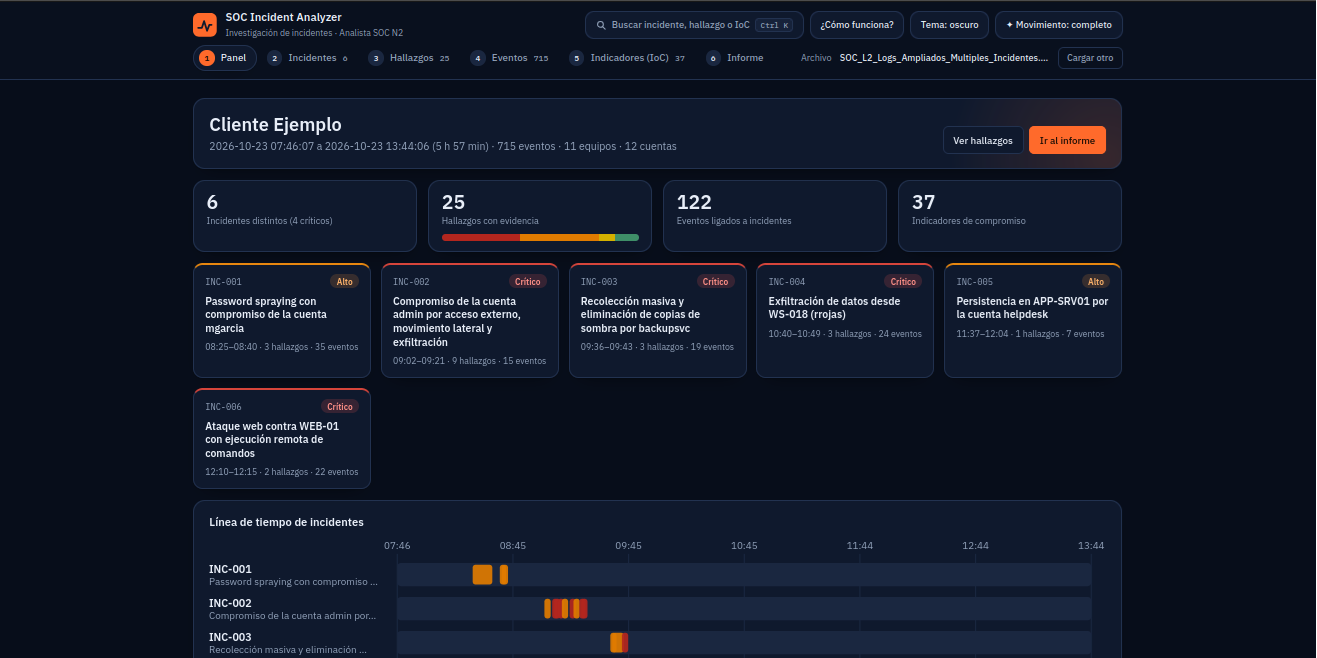
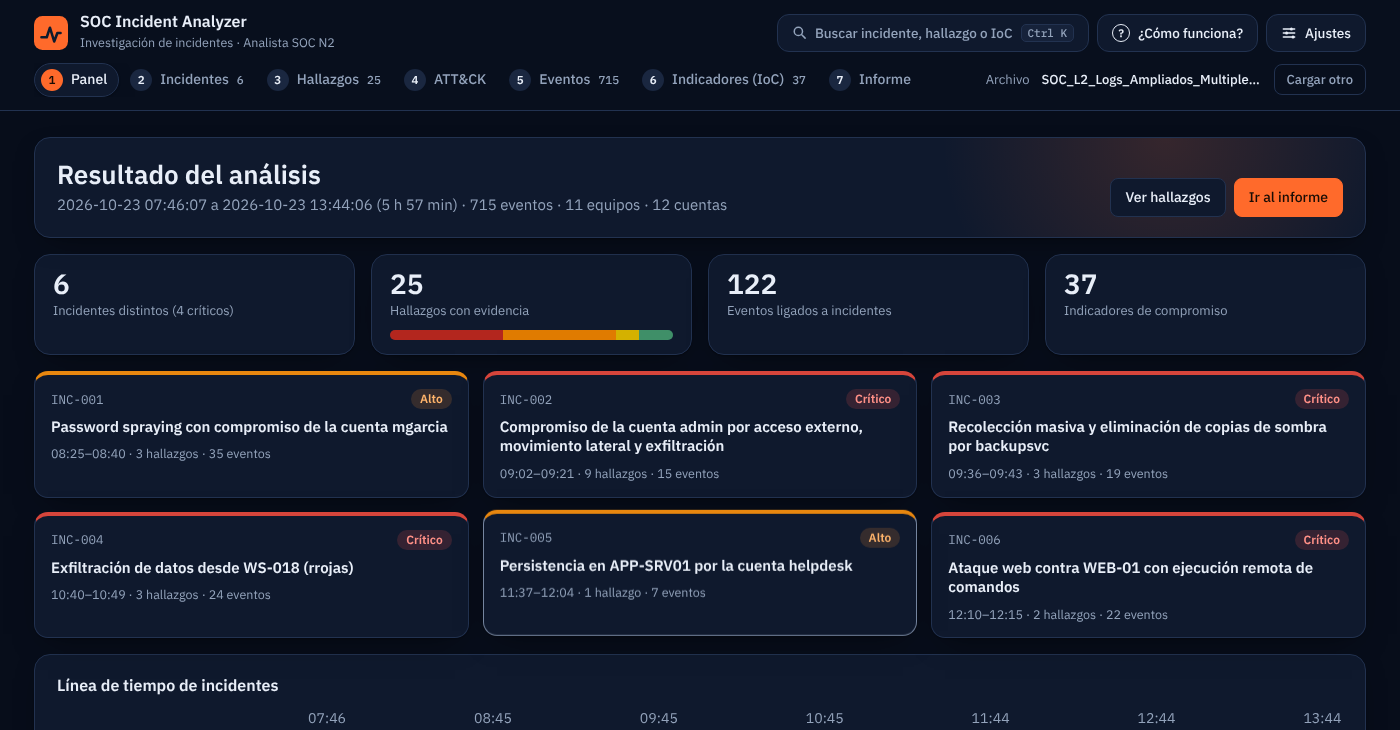
Add files via upload

diff --git a/frontend/app.js b/frontend/app.js
@@ -8,6 +8,7 @@ const S = { needAuth: false, sid: null, filename: "", client: "", analyst: "", a
 
 const $ = (s, r = document) => r.querySelector(s);
 const esc = (v) => String(v ?? "").replace(/[&<>"']/g, (c) => ({ "&": "&amp;", "<": "&lt;", ">": "&gt;", '"': "&quot;", "'": "&#39;" }[c]));
+const plural = (n, one, many) => `${num(n)} ${n === 1 ? one : many}`;
 const sevPill = (s) => `<span class="sev ${esc(s)}">${esc(s)}</span>`;
 const num = (n) => Number(n).toLocaleString("es-AR");
 const hhmm = (t) => (t || "").slice(11, 16);
@@ -58,6 +59,15 @@ async function upload(file, client, analyst) {
   } catch (e) { showLandingError(e.message); }
   finally { busy(false); }
 }
+async function useSample(client, analyst) {
+  busy(true, "Analizando el ejemplo…");
+  try {
+    const fd = new FormData(); fd.append("client", client); fd.append("analyst", analyst);
+    const res = await api("/api/sample", { method: "POST", body: fd });
+    adopt(res); location.hash = "#/dashboard"; render();
+  } catch (e) { showLandingError(e.message); }
+  finally { busy(false); }
+}
 function showLandingError(m) { const b = $("#lerr"); if (b) { b.textContent = m; b.hidden = false; } else toast(m); }
 
 /* ---------- navegación ---------- */
@@ -70,6 +80,7 @@ function renderRail() {
   const cnt = { incidents: S.a.incidents.length, findings: S.a.findings.length, iocs: S.a.iocs.length, logs: S.a.profile.rows };
   nav.innerHTML = ROUTES.map(([k, l], i) =>
     `<a href="#/${k}" ${route() === k ? 'aria-current="page"' : ""}><span class="n">${i + 1}</span><span>${l}</span>${cnt[k] !== undefined ? `<span class="count">${num(cnt[k])}</span>` : ""}</a>`).join("");
+  const cur = nav.querySelector("[aria-current=page]"); if (cur) nav.scrollLeft = Math.max(0, cur.offsetLeft - 24);   // narrow screens: keep the open section visible
   foot.innerHTML = `<span>Archivo</span><b title="${esc(S.filename)}">${esc(S.filename)}</b><button class="btn ghost" id="newBtn">Cargar otro</button>`;
   $("#newBtn").onclick = () => { S.a = null; S.sid = null; store.set("sid", ""); location.hash = "#/"; render(); };
 }
@@ -129,7 +140,9 @@ function landing() {
     </div>
     <div class="row">
       <button class="btn primary" id="go" disabled>Analizar archivo</button>
+      <button class="btn" id="sample" type="button">Probar con datos de ejemplo</button>
     </div>
+    <p class="muted hint">¿Solo quieres ver cómo funciona? El ejemplo usa el export sintético del repositorio (715 eventos, sin datos reales).</p>
     <div class="err" id="lerr" role="alert" hidden></div>
     <ul class="checks">
       <li>Fuerza bruta y password spraying</li><li>Inicios de sesión externos y fuera de patrón</li>
@@ -149,6 +162,7 @@ function bindLanding() {
   ["dragleave", "drop"].forEach((ev) => drop.addEventListener(ev, (e) => { e.preventDefault(); drop.classList.remove("over"); }));
   drop.addEventListener("drop", (e) => pick(e.dataTransfer.files[0]));
   go.onclick = () => upload(file, $("#client").value, $("#analyst").value);
+  $("#sample").onclick = () => useSample($("#client").value, $("#analyst").value);
 }
 
 /* ---------- gráficos ---------- */
@@ -225,7 +239,7 @@ function dashboard() {
   return `<section class="panel hero">
       <div class="page-head" style="margin:0">
         <div><h1>${S.client ? esc(S.client) : "Resultado del análisis"}</h1>
-        <p>${esc(p.time_start)} a ${esc(p.time_end)} (${esc(p.duration)}) · ${num(p.rows)} eventos · ${p.hosts} equipos · ${p.users} cuentas</p></div>
+        <p>${esc(p.time_start)} a ${esc(p.time_end)} (${esc(p.duration)}) · ${plural(p.rows, "evento", "eventos")} · ${plural(p.hosts, "equipo", "equipos")} · ${plural(p.users, "cuenta", "cuentas")}</p></div>
         <div style="display:flex;gap:8px;flex-wrap:wrap"><a class="btn" href="#/findings">Ver hallazgos</a><a class="btn primary" href="#/report">Ir al informe</a></div>
       </div></section>
     <div class="grid g4" style="margin-top:16px">
@@ -237,7 +251,7 @@ function dashboard() {
     <div class="inc-cards">${S.a.incidents.map((i) => `<button class="inc-card ${esc(i.severity)}" data-card="${esc(i.id)}">
         <span class="top2"><span class="mono muted">${esc(i.id)}</span>${sevPill(i.severity)}</span>
         <b>${esc((S.ai.incidents[i.id] || {}).title || i.title)}</b>
-        <small>${hhmm(i.time_start)}–${hhmm(i.time_end)} · ${i.finding_ids.length} hallazgos · ${i.evidence_count} eventos</small></button>`).join("")}</div>
+        <small>${hhmm(i.time_start)}–${hhmm(i.time_end)} · ${plural(i.finding_ids.length, "hallazgo", "hallazgos")} · ${plural(i.evidence_count, "evento", "eventos")}</small></button>`).join("")}</div>
     <div class="panel" style="margin-top:16px"><h3>Línea de tiempo de incidentes</h3>${swimlane()}</div>
     <div class="grid g-wide" style="margin-top:16px">
       <div class="panel"><h3>Actividad de la ventana analizada</h3>${activityChart()}</div>
@@ -281,7 +295,7 @@ function incidents() {
     const g = G[inc.id] || {}, fs = S.a.findings.filter((f) => f.incident_id === inc.id);
     return `<article class="panel inc ${esc(inc.severity)}" id="${esc(inc.id)}">
       <div class="inc-head"><div><span class="id">${esc(inc.id)}</span><h2>${esc(g.title || inc.title)}</h2></div>${sevPill(inc.severity)}</div>
-      <div class="meta-line"><span>${hhmmss(inc.time_start)}–${hhmmss(inc.time_end)}</span><span>${inc.evidence_count} eventos de evidencia</span>
+      <div class="meta-line"><span>${hhmmss(inc.time_start)}–${hhmmss(inc.time_end)}</span><span>${plural(inc.evidence_count, "evento", "eventos")} de evidencia</span>
         ${g.confidence ? `<span>Confianza de la correlación: ${esc(g.confidence)}</span>` : ""}</div>
       <p>${esc(g.narrative || "")}</p>
       ${g.confidence_reason ? `<p class="muted">${esc(g.confidence_reason)}</p>` : ""}
@@ -312,7 +326,7 @@ function attack() {
       <h3>${esc(t.name_es)}<small>${esc(t.id)} · ${esc(t.name)}</small></h3>
       ${t.techniques.map((c) => `<article class="mx-cell ${esc(c.severity)}">
         ${MITRE_URL.test(c.url) ? `<a href="${esc(c.url)}" target="_blank" rel="noopener noreferrer"><span class="mono">${esc(c.id)}</span> ${esc(c.name)}</a>` : `<span class="mono">${esc(c.id)}</span> ${esc(c.name)}`}
-        <div class="mx-meta">${sevPill(c.severity)}<span class="muted">${c.count} ${c.count === 1 ? "hallazgo" : "hallazgos"}</span></div>
+        <div class="mx-meta">${sevPill(c.severity)}<span class="muted">${plural(c.count, "hallazgo", "hallazgos")}</span></div>
         <div>${c.finding_ids.map((f) => `<button class="tag tag-btn" data-mxf="${esc(c.id)}" title="Ver hallazgos con ${esc(c.id)}">${esc(f)}</button>`).join("")}</div>
       </article>`).join("")}</section>`).join("");
   return `${head}
@@ -320,8 +334,8 @@ function attack() {
     <div class="panel" style="margin-top:16px"><h3>Exportar</h3>
       <p class="muted">Descarga una capa para <b>ATT&amp;CK Navigator</b> (el color indica la criticidad máxima). En Navigator: <i>Open Existing Layer</i> → <i>Upload from local</i>. El archivo se genera aquí; no se envía a ningún servicio.</p>
       <button class="btn primary" id="navLayer">Descargar capa para Navigator (.json)</button></div>
-    <div class="mx" role="region" aria-label="Matriz ATT&amp;CK" tabindex="0">${cols}</div>
-    <p class="muted">${A.techniques_total} ${A.techniques_total === 1 ? "técnica" : "técnicas"} en ${A.tactics.length} ${A.tactics.length === 1 ? "táctica" : "tácticas"}.${A.findings_without_mapping ? ` ${A.findings_without_mapping} hallazgo(s) sin técnica asociada (por ejemplo, calidad de datos).` : ""}</p>`;
+    <div class="mx" role="region" aria-label="Matriz ATT&amp;CK">${cols}</div>
+    <p class="muted">${A.techniques_total} ${A.techniques_total === 1 ? "técnica" : "técnicas"} en ${A.tactics.length} ${A.tactics.length === 1 ? "táctica" : "tácticas"}.${A.findings_without_mapping ? ` ${plural(A.findings_without_mapping, "hallazgo sin técnica asociada", "hallazgos sin técnica asociada")} (por ejemplo, calidad de datos).` : ""}</p>`;
 }
 function bindAttack() {
   document.querySelectorAll("[data-mxf]").forEach((b) => b.onclick = () => { S.findingQ = b.dataset.mxf; S.findingFilter = "Todos"; S.findingCat = ""; location.hash = "#/findings"; });
@@ -355,7 +369,7 @@ function findings() {
         <h4>Explicación técnica</h4><p>${esc(a.technical_explanation || f.explanation)}</p>
         <h4>Criticidad: ${esc(f.severity)}</h4><p>${esc(a.severity_justification || "")}</p><ul>${li(f.reasons)}</ul>
         <h4>Impacto en la organización</h4><p>${esc(a.impact || "")}</p>
-        <h4>Evidencia (${f.evidence_ids.length} eventos)</h4>
+        <h4>Evidencia (${plural(f.evidence_ids.length, "evento", "eventos")})</h4>
         <div class="evbox" data-fid="${esc(f.id)}"><button class="btn" data-loadev="${esc(f.id)}">Ver eventos de log</button></div>
         <h4>Plan de acción</h4>
         <div class="plan"><div><h4>Investigar</h4><ul>${li(ap.investigate)}</ul></div><div><h4>Contener</h4><ul>${li(ap.contain)}</ul></div><div><h4>Remediar</h4><ul>${li(ap.remediate)}</ul></div></div>
@@ -364,7 +378,7 @@ function findings() {
   return `<div class="page-head"><div><h1>Hallazgos</h1><p>Cada hallazgo cita los Log_ID del archivo que lo sustentan.</p></div></div>
     <div class="filters"><input type="search" id="fq" placeholder="Buscar por nombre, técnica (T1110) o táctica" value="${esc(S.findingQ)}" aria-label="Buscar hallazgos">
       <select id="fcat" aria-label="Categoría"><option value="">Todas las categorías</option>${cats.map((c) => `<option ${c === S.findingCat ? "selected" : ""}>${esc(c)}</option>`).join("")}</select>
-      <span class="muted">${list.length} de ${S.a.findings.length} hallazgos</span></div>
+      <span class="muted">${list.length} de ${plural(S.a.findings.length, "hallazgo", "hallazgos")}</span></div>
     <div class="chip-row">${chips}</div>${items || "<p class='muted'>No hay hallazgos con ese filtro.</p>"}`;
 }
 function evTable(rows) {
@@ -605,6 +619,16 @@ function applyMotion(m) {
 function initChrome() {
   let theme = pref.get("theme") || "auto", motion = pref.get("motion") || "full";
   applyTheme(theme); applyMotion(motion);
+  const sBtn = $("#settingsBtn"), sMenu = $("#settingsMenu");
+  const closeMenu = (focus) => { sMenu.hidden = true; sBtn.setAttribute("aria-expanded", "false"); if (focus) sBtn.focus(); };
+  sBtn.onclick = () => { const open = sMenu.hidden; sMenu.hidden = !open; sBtn.setAttribute("aria-expanded", String(open)); if (open) sMenu.querySelector("button").focus(); };
+  document.addEventListener("click", (e) => { if (!sMenu.hidden && !e.target.closest(".menu-wrap")) closeMenu(false); });
+  sMenu.addEventListener("keydown", (e) => {
+    const items = [...sMenu.querySelectorAll("button")], i = items.indexOf(document.activeElement);
+    if (e.key === "Escape") { e.preventDefault(); closeMenu(true); }
+    else if (e.key === "ArrowDown") { e.preventDefault(); items[(i + 1) % items.length].focus(); }
+    else if (e.key === "ArrowUp") { e.preventDefault(); items[(i - 1 + items.length) % items.length].focus(); }
+  });
   $("#themeBtn").onclick = () => { theme = { auto: "light", light: "dark", dark: "auto" }[theme]; pref.set("theme", theme); applyTheme(theme); };
   $("#motionBtn").onclick = () => { motion = motion === "full" ? "reduced" : "full"; pref.set("motion", motion); applyMotion(motion); };
   $("#helpBtn").onclick = () => openDialog("¿Cómo funciona?", `<div class="how"><ol>

diff --git a/frontend/styles.css b/frontend/styles.css
@@ -57,18 +57,24 @@ button,input,select{font:inherit;color:inherit}
 .tool{display:inline-flex;align-items:center;gap:8px;border:1px solid var(--line);background:var(--panel);border-radius:12px;padding:8px 14px;cursor:pointer;font-size:13.5px;font-weight:500;transition:border-color .15s,transform .15s}
 .tool:hover{border-color:var(--muted)}
 .tool:active{transform:scale(.97)}
+.tool .ico{display:grid;place-items:center;width:18px;height:18px;border:1.5px solid currentColor;border-radius:50%;font:700 11px var(--sans)}
+.menu-wrap{position:relative}
+.menu{position:absolute;right:0;top:calc(100% + 6px);min-width:230px;background:var(--panel);border:1px solid var(--line);border-radius:12px;box-shadow:var(--shadow);padding:6px;z-index:30}
+.menu button{display:block;width:100%;text-align:left;background:none;border:0;padding:9px 12px;border-radius:8px;cursor:pointer;font-size:14px}
+.menu button:hover,.menu button:focus-visible{background:var(--soft)}
 .tool.wide{min-width:280px;color:var(--muted);justify-content:flex-start}
 .tool kbd{margin-left:auto;font:500 11px var(--mono);border:1px solid var(--line);border-radius:5px;padding:1px 6px;background:var(--soft)}
 .tabs-row{display:flex;align-items:center;justify-content:space-between;gap:16px;padding:0 34px 12px;max-width:1400px;margin:0 auto;min-height:48px}
-.tabs{display:flex;gap:6px;flex-wrap:wrap}
-.tabs a{display:inline-flex;align-items:center;gap:9px;padding:6px 14px 6px 7px;border:1px solid transparent;border-radius:999px;text-decoration:none;color:var(--muted);font-size:14px;font-weight:500;transition:background .15s,color .15s,border-color .15s}
+.tabs{display:flex;gap:4px;flex-wrap:nowrap;min-width:0;overflow-x:auto;scrollbar-width:none;-webkit-overflow-scrolling:touch}
+.tabs::-webkit-scrollbar{display:none}
+.tabs a{display:inline-flex;align-items:center;gap:8px;flex:0 0 auto;white-space:nowrap;padding:5px 11px 5px 6px;border:1px solid transparent;border-radius:999px;text-decoration:none;color:var(--muted);font-size:14px;font-weight:500;transition:background .15s,color .15s,border-color .15s}
 .tabs a:hover{color:var(--ink);background:var(--soft)}
 .tabs a .n{display:grid;place-items:center;width:22px;height:22px;border-radius:50%;background:var(--track);font:600 11.5px var(--sans);color:var(--ink)}
 .tabs a .count{font:500 11.5px var(--mono);color:var(--muted)}
 .tabs a[aria-current=page]{color:var(--ink);border-color:var(--line);background:var(--panel);box-shadow:var(--shadow)}
 .tabs a[aria-current=page] .n{background:var(--accent);color:var(--accent-ink)}
 .rail-foot{display:flex;align-items:center;gap:12px;font-size:13px;color:var(--muted);min-width:0}
-.rail-foot b{color:var(--ink);font-weight:500;overflow:hidden;text-overflow:ellipsis;white-space:nowrap;max-width:300px}
+.rail-foot b{color:var(--ink);font-weight:500;overflow:hidden;text-overflow:ellipsis;white-space:nowrap;max-width:220px}
 .rail-foot .btn{padding:5px 12px;font-size:13px;white-space:nowrap}
 
 main{padding:26px 34px 70px;min-width:0;max-width:1400px;width:100%;margin:0 auto}
@@ -217,7 +223,7 @@ dialog .db{padding:14px 18px 18px;max-height:70vh;overflow:auto}
 .hero{position:relative;overflow:hidden}
 .hero::before{content:"";position:absolute;inset:0;pointer-events:none;background:radial-gradient(circle 320px at var(--gx,85%) var(--gy,0%),rgba(255,106,43,.16),transparent 70%);transition:opacity .3s}
 .hero>*{position:relative}
-.inc-cards{display:grid;grid-template-columns:repeat(auto-fill,minmax(250px,1fr));gap:14px;margin-top:16px}
+.inc-cards{display:grid;grid-template-columns:repeat(auto-fill,minmax(min(100%,400px),1fr));gap:14px;margin-top:16px}
 .inc-card{display:flex;flex-direction:column;gap:8px;text-align:left;cursor:pointer;border:1px solid var(--line);border-top:4px solid var(--none);background:var(--panel);border-radius:14px;padding:14px 16px;box-shadow:var(--shadow);transition:transform .18s,border-color .18s}
 .inc-card:hover,.inc-card:focus-visible{transform:translateY(-3px);border-color:var(--muted)}
 .inc-card.Crítico{border-top-color:#d6453b}.inc-card.Alto{border-top-color:#e8870f}.inc-card.Medio{border-top-color:#d9b800}.inc-card.Bajo{border-top-color:#3fa377}
@@ -251,10 +257,13 @@ dialog.pal{max-width:640px;margin-top:12vh}
   .top-row,.tabs-row{padding-left:16px;padding-right:16px}
   main{padding:20px 16px 50px}
   .tool.wide{min-width:0}.tool.wide span,.tool.wide kbd{display:none}
-  .tabs-row{flex-direction:column;align-items:flex-start}
+  .tabs-row{flex-direction:column;align-items:stretch;padding-bottom:10px}
   .g2,.g3,.g4,.g-wide,.plan,.fields,.checks{grid-template-columns:1fr}
   .g4{grid-template-columns:1fr 1fr}
 }
+.hint{margin:12px 0 0;font-size:13.5px}
+@media (max-width:900px){.tool .lbl{display:none}.tool{padding:8px 11px}.tabs-row{gap:8px}.tabs{-webkit-mask-image:linear-gradient(to right,#000 calc(100% - 28px),transparent);mask-image:linear-gradient(to right,#000 calc(100% - 28px),transparent);padding-right:28px}.rail-foot{width:100%;justify-content:space-between}.rail-foot b{max-width:60vw}}
+@media (max-width:600px){.brand small{display:none}.top-row{padding-top:10px;padding-bottom:6px}}
 @media (prefers-reduced-motion:reduce){*{transition:none!important;animation:none!important}}
 
 /* reputación de indicadores */
@@ -269,8 +278,8 @@ dialog.pal{max-width:640px;margin-top:12vh}
 /* MITRE ATT&CK matrix */
 .tag-link{text-decoration:none}.tag-link:hover{text-decoration:underline}
 .tag-btn{border:0;cursor:pointer}.tag-btn:focus-visible,.tag-link:focus-visible,.mx-cell a:focus-visible{outline:2px solid var(--focus);outline-offset:2px}
-.mx{display:flex;gap:12px;overflow-x:auto;padding:4px 2px 14px;margin:16px 0}
-.mx-col{flex:0 0 220px}
+.mx{display:grid;grid-template-columns:repeat(auto-fill,minmax(210px,1fr));gap:20px 14px;align-items:start;margin:16px 0}
+.mx-col{min-width:0}
 .mx-col h3{font-size:14px;margin:0 0 8px;line-height:1.25}.mx-col h3 small{display:block;font:500 11px var(--mono);color:var(--muted);margin-top:2px}
 .mx-cell{border:1px solid var(--line);border-left:4px solid var(--line);border-radius:8px;padding:9px 10px;margin-bottom:8px;background:var(--panel,transparent);font-size:13px}
 .mx-cell a{color:inherit;font-weight:600;text-decoration:none}.mx-cell a:hover{text-decoration:underline}

diff --git a/frontend/index.html b/frontend/index.html
@@ -23,9 +23,17 @@
             <svg width="15" height="15" viewBox="0 0 20 20" aria-hidden="true"><circle cx="8.5" cy="8.5" r="5.5" fill="none" stroke="currentColor" stroke-width="2"/><path d="M13 13l4.5 4.5" stroke="currentColor" stroke-width="2" stroke-linecap="round"/></svg>
             <span>Buscar incidente, hallazgo o IoC</span><kbd>Ctrl K</kbd>
           </button>
-          <button class="tool" id="helpBtn">¿Cómo funciona?</button>
-          <button class="tool" id="themeBtn" aria-label="Cambiar tema"></button>
-          <button class="tool" id="motionBtn" aria-label="Cambiar movimiento"></button>
+          <button class="tool" id="helpBtn" aria-label="¿Cómo funciona?"><span class="ico" aria-hidden="true">?</span><span class="lbl">¿Cómo funciona?</span></button>
+          <div class="menu-wrap">
+            <button class="tool" id="settingsBtn" aria-haspopup="true" aria-expanded="false" aria-controls="settingsMenu" aria-label="Ajustes de visualización">
+              <svg width="16" height="16" viewBox="0 0 20 20" aria-hidden="true"><path d="M3 5h8M15 5h2M3 10h2M9 10h8M3 15h10M17 15h0" fill="none" stroke="currentColor" stroke-width="2" stroke-linecap="round"/><circle cx="13" cy="5" r="2" fill="currentColor"/><circle cx="7" cy="10" r="2" fill="currentColor"/><circle cx="15" cy="15" r="2" fill="currentColor"/></svg>
+              <span class="lbl">Ajustes</span>
+            </button>
+            <div class="menu" id="settingsMenu" role="menu" aria-label="Ajustes de visualización" hidden>
+              <button role="menuitem" id="themeBtn"></button>
+              <button role="menuitem" id="motionBtn"></button>
+            </div>
+          </div>
         </div>
       </div>
       <div class="tabs-row">

diff --git a/tests/integration/test_sample_api.py b/tests/integration/test_sample_api.py
@@ -1,0 +1,49 @@
+"""Datos de ejemplo y estructura de la interfaz: el botón de ejemplo usa un archivo fijo del servidor, no uno elegido por el cliente."""
+from pathlib import Path
+
+from fastapi.testclient import TestClient
+
+from backend import main
+from backend.main import app
+
+client = TestClient(app)
+FRONT = Path(__file__).resolve().parents[2] / "frontend"
+
+
+def test_sample_runs_the_bundled_export():
+    r = client.post("/api/sample", data={"client": "Cliente de prueba", "analyst": "Ana"})
+    assert r.status_code == 200
+    j = r.json()
+    assert j["filename"] == main.SAMPLE_FILE.name and j["client"] == "Cliente de prueba" and j["analyst"] == "Ana"
+    assert j["analysis"]["profile"]["rows"] == 715 and len(j["analysis"]["incidents"]) == 6
+    assert client.get(f"/api/sessions/{j['session_id']}").status_code == 200
+
+
+def test_sample_ignores_any_file_or_path_sent_by_the_client():
+    r = client.post("/api/sample", data={"file": "../../etc/passwd", "path": "/etc/passwd"}, files={"f": ("x.csv", b"a,b\n1,2\n")})
+    assert r.status_code == 200 and r.json()["filename"] == main.SAMPLE_FILE.name
+
+
+def test_sample_without_the_bundled_file_is_a_clean_404(monkeypatch):
+    monkeypatch.setattr(main, "SAMPLE_FILE", Path("/nonexistent/ejemplo.csv"))
+    r = client.post("/api/sample")
+    assert r.status_code == 404 and "ejemplo" in r.json()["detail"]
+
+
+def test_sample_is_rate_limited_like_upload():
+    main._hits.clear()
+    codes = [client.post("/api/sample").status_code for _ in range(main.RATE_LIMITS["/api/upload"][0] + 2)]
+    main._hits.clear()
+    assert codes[-1] == 429 and codes[0] == 200
+
+
+def test_ui_has_the_sample_button_and_one_settings_menu():
+    html, js = (FRONT / "index.html").read_text(encoding="utf-8"), (FRONT / "app.js").read_text(encoding="utf-8")
+    assert 'id="settingsBtn"' in html and 'aria-haspopup="true"' in html and 'role="menu"' in html
+    assert html.index('id="settingsMenu"') < html.index('id="themeBtn"') < html.index('id="motionBtn"')      # both options live inside the menu
+    assert 'id="sample"' in js and "/api/sample" in js and "Probar con datos de ejemplo" in js
+
+
+def test_ui_pluralises_counts():
+    js = (FRONT / "app.js").read_text(encoding="utf-8")
+    assert "const plural =" in js and "hallazgo(s)" not in js

diff --git a/backend/main.py b/backend/main.py
@@ -69,7 +69,7 @@ class SafeJSON(JSONResponse):
 
 
 _DOCS = os.environ.get("ENABLE_DOCS", "").strip().lower() in ("1", "true", "yes")      # API docs reveal the full surface: opt-in
-app = FastAPI(title="SOC Incident Analyzer", version="1.1.0", default_response_class=SafeJSON,
+app = FastAPI(title="SOC Incident Analyzer", version="1.2.0", default_response_class=SafeJSON,
               docs_url="/docs" if _DOCS else None, redoc_url="/redoc" if _DOCS else None, openapi_url="/openapi.json" if _DOCS else None)
 
 
@@ -242,6 +242,18 @@ async def upload(request: Request, file: UploadFile = File(...), client: str = F
         log.warning("upload_rejected reason=content_mismatch ext=%s size=%d", os.path.splitext(name)[1].lower(), len(data))
         raise HTTPException(422, check.reject)
     return _create_session(data, name, client, analyst, check.warnings)
+
+
+SAMPLE_FILE = ROOT / "sample_data" / "SOC_L2_Logs_Ampliados_Multiples_Incidentes.csv"
+
+
+@app.post("/api/sample")
+def use_sample(request: Request, client: str = Form(""), analyst: str = Form("")):
+    """Analyse the synthetic export shipped with the project (fixed path: nothing from the request picks the file)."""
+    _rate_limit(request, "/api/upload", *RATE_LIMITS["/api/upload"])
+    if not SAMPLE_FILE.is_file():
+        raise HTTPException(404, "Este despliegue no incluye los datos de ejemplo.")
+    return _create_session(SAMPLE_FILE.read_bytes(), SAMPLE_FILE.name, client, analyst)
 
 
 @app.get("/api/sessions/{sid}")

diff --git a/README.md b/README.md
@@ -52,6 +52,10 @@ Las IP y los datos del ejemplo son sintéticos (rangos de documentación RFC 573
 
 ## Capturas
 
+**Inicio: carga del archivo o prueba con datos de ejemplo**
+
+![Pantalla de inicio con la zona de carga y el botón de datos de ejemplo](img/Inicio.png)
+
 **Panel: resumen e incidentes detectados**
 
 ![Panel con las tarjetas de incidentes y la línea de tiempo](img/Dashboard.png)
@@ -84,6 +88,10 @@ Las IP y los datos del ejemplo son sintéticos (rangos de documentación RFC 573
 
 ![Pantalla del informe técnico](img/Informe.png)
 
+**Verificación del archivo: un PNG renombrado a `.csv` se rechaza por su contenido, no por su extensión**
+
+![Mensaje de rechazo al subir una imagen renombrada como CSV](img/Archivo-rechazado.png)
+
 **Informe técnico generado**
 
 [Ver el informe de ejemplo en PDF](examples/informe-ejemplo.pdf) (29 páginas: resumen ejecutivo, 6 incidentes, hallazgos con evidencia, plan de acción y recomendaciones). El nombre del cliente es ficticio.
@@ -113,7 +121,7 @@ nano .env                       # ANTHROPIC_API_KEY=...  VT_API_KEY=...  ABUSEIP
 uvicorn backend.main:app --host 127.0.0.1 --port 8000
 ```
 
-Abre http://127.0.0.1:8000, sube el export del SIEM (puedes usar cualquiera de los de `sample_data/`), revisa el análisis y descarga el informe en la pestaña **Informe**. Si no definiste la clave en `.env`, puedes pegarla ahí; solo se usa durante esa sesión.
+Abre http://127.0.0.1:8000, sube el export del SIEM (puedes usar cualquiera de los de `sample_data/`, o pulsar **Probar con datos de ejemplo** para verlo sin buscar ningún archivo), revisa el análisis y descarga el informe en la pestaña **Informe**. Si no definiste la clave en `.env`, puedes pegarla ahí; solo se usa durante esa sesión.
 
 En Windows, la activación del entorno es `.venv\Scripts\activate`.
 
@@ -164,7 +172,7 @@ Opcional. En la pestaña **Indicadores (IoC)**, el botón **Consultar reputació
 
 ```bash
 pip install --require-hashes -r requirements-dev.lock      # pytest, cobertura, bandit y pip-audit
-python -m pytest                                           # 257 pruebas
+python -m pytest                                           # 263 pruebas
 python -m pytest --cov=backend --cov-report=term-missing   # con cobertura (94 %)
 ```
 
@@ -172,7 +180,7 @@ Atajos con `make` (Linux/macOS/WSL): `make install`, `make test`, `make test-cov
 
 - `tests/unit/`: motor de detección contra el Excel de ejemplo, límites del parser, formatos de entrada (CSV, TSV, JSON, NDJSON, codificaciones y zonas horarias), verificación de archivos (tipo real por contenido, macros, inyección de fórmulas) y datos de MITRE ATT&CK (todas las técnicas que citan las reglas existen y siguen vigentes, matriz y capa de Navigator).
 
-- `tests/integration/`: API con entradas hostiles (archivo falso, markup en celdas y portada, 413, 429, cabeceras), clave de acceso (401 en todas las rutas protegidas, fuerza bruta), capa de IA y consultas de reputación con servidores simulados (las pruebas no usan red ni claves).
+- `tests/integration/`: API con entradas hostiles (archivo falso, markup en celdas y portada, 413, 429, cabeceras), clave de acceso (401 en todas las rutas protegidas, fuerza bruta), capa de IA consultas de reputación con servidores simulados (las pruebas no usan red ni claves) y el botón de datos de ejemplo.
 
 - `tests/e2e/`: arranca el servidor real y recorre carga, análisis y PDF.
 

diff --git a/CHANGELOG.md b/CHANGELOG.md
@@ -4,6 +4,19 @@ Formato basado en [Keep a Changelog](https://keepachangelog.com/es-ES/1.1.0/) y 
 
 ## [Sin publicar]
 
+## [1.2.0] - 2026-11-04
+
+### Añadido
+- Botón **Probar con datos de ejemplo** en la pantalla de inicio: analiza el export sintético incluido en el repositorio sin tener que elegir un archivo (`POST /api/sample`; el archivo es fijo en el servidor).
+
+### Cambiado
+- Cabecera más compacta: las siete pestañas caben en una sola fila, y el tema y el movimiento se agrupan en el menú **Ajustes**. En pantallas pequeñas las pestañas se desplazan.
+- Panel: los incidentes se muestran en una cuadrícula de tres columnas.
+- Matriz ATT&CK en cuadrícula adaptable: se ven todas las tácticas sin desplazamiento horizontal.
+- Plurales corregidos en la interfaz («1 hallazgo», «1 evento»).
+- Capturas del README renovadas, con la pantalla de inicio y el rechazo de un archivo falso.
+- README: requisito explícito de Python 3.12.
+
 ## [1.1.0] - 2026-11-03
 
 ### Añadido
